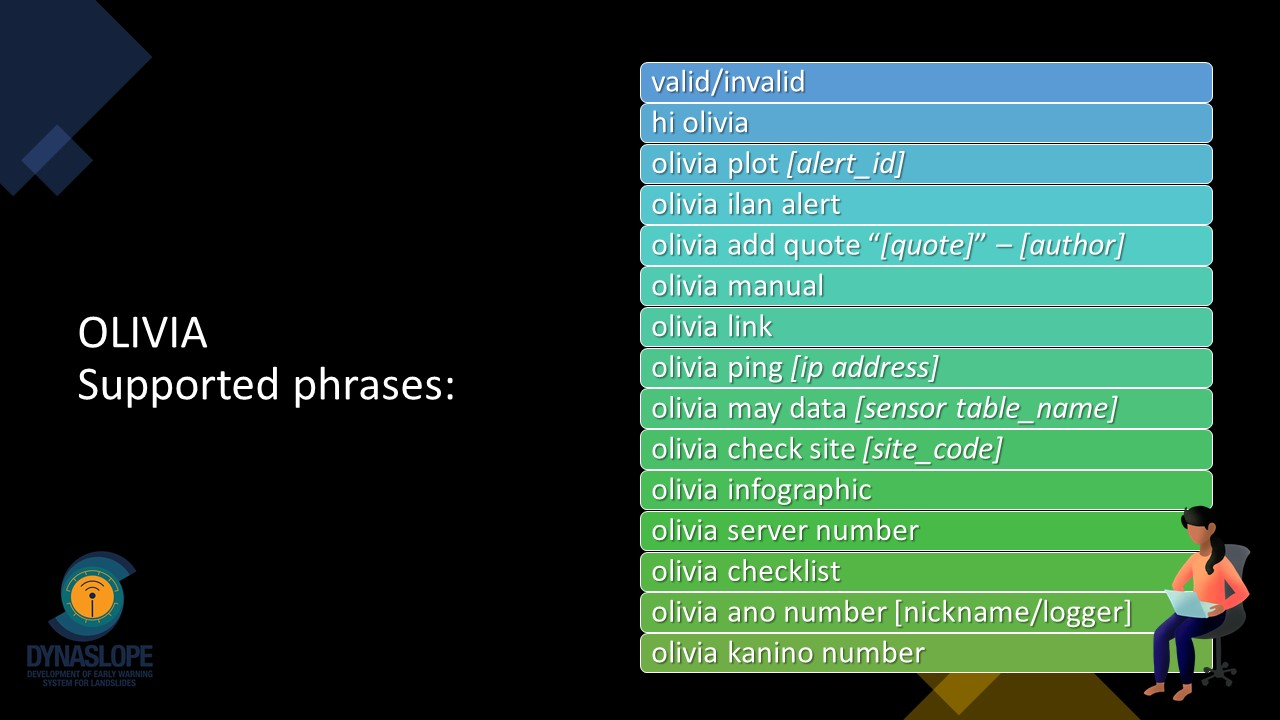
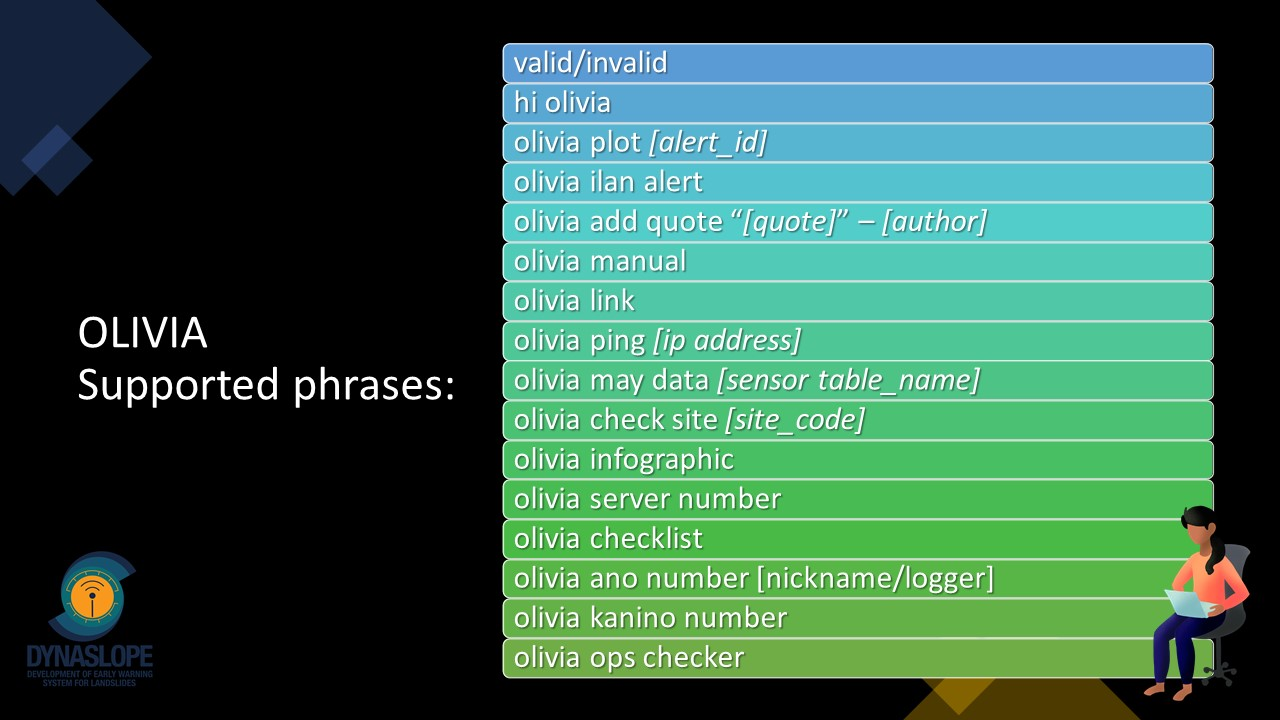
added olivia scripts

Changed region(s): [[0.375, 0.0611, 0.9688, 0.9472]]

diff --git a/gsm/smsparser2/subsurface.py b/gsm/smsparser2/subsurface.py
@@ -7,6 +7,8 @@ import sys
 
 sys.path.append(os.path.dirname(os.path.realpath(__file__)))
 import smsclass
+import volatile.memory as mem
+import rain
 #------------------------------------------------------------------------------
 
 
@@ -72,6 +74,23 @@ def v1(sms):
    
     tsm_name = line[0:4]
     print ('SITE: ' + tsm_name)
+    
+#    check tsm in tsm list 
+    mc = mem.get_handle()
+    tsm_list = mc.get('DF_TSM_SENSORS').tsm_name.tolist()
+    if tsm_name.lower() not in tsm_list:
+        #kunin sa logger mobile yung tsm_name
+        sender = sms.sim_num[-10:]
+
+        msgname = rain.check_name_of_number(sender)
+        if msgname:
+            tsm_name = msgname.lower()
+            print (">> Number registered as", tsm_name)
+
+        else:
+            raise ValueError("Number not registered {}".format(sender))
+###############################################################################
+            
     ##msgdata = line[5:len(line)-11] #data is 6th char, last 10 char are date
     try:
         msgdata = (line.split('*'))[1]
@@ -253,22 +272,40 @@ def v2(sms):
     outl = []
     msgsplit = msg.split('*')
     tsm_name = msgsplit[0] # column id
-
-    if len(msgsplit) != 4:
-        print ('wrong data format')
-        # print msg
-        return
-
+    
     if len(tsm_name) != 5:
         print ('wrong master name')
         return
+#    check tsm in tsm list 
+
+#    mc = mem.get_handle()
+#    tsm_list = mc.get('DF_TSM_SENSORS').tsm_name.tolist()
+#    if tsm_name.lower() not in tsm_list:
+#        #kunin sa logger mobile yung tsm_name
+#        sender = sms.sim_num[-10:]
+#
+#        msgname = rain.check_name_of_number(sender)
+#        if msgname:
+#            tsm_name = msgname.lower()
+#            print (">> Number registered as", tsm_name)
+#
+#        else:
+#            raise ValueError("Number not registered {}".format(sender))
+
+###############################################################################
+    if len(msgsplit) != 4:
+        print ('wrong data format')
+		# print msg	   
+        return
+
+
 
     print (msg)
 
     dtype = msgsplit[1].upper()
    
     datastr = msgsplit[2]
-    
+ 
     if len(datastr) == 136:
         datastr = datastr[0:72] + datastr[73:]
     
@@ -362,7 +399,7 @@ def v2(sms):
             except ValueError:
                 print (">> Value Error detected.", piece,)
                 print ("Piece of data to be ignored")
-                return
+#                return
     
     df = pd.DataFrame(outl)
     data = smsclass.DataTable(name_df,df)
@@ -561,14 +598,30 @@ def soms_parser(msgline,mode,div,err, dt):
 
 def b64Parser(sms):
     msg = sms.msg
+
     print (msg)
     if len(msg.split("*")) == 4:
         msgsplit = msg.split('*')
 		
         tsm_name = msgsplit[0]
-        if len(tsm_name) != 5:
+        if len(tsm_name) !=5:
             raise ValueError("length of tsm_name != 5")
-
+            
+        #    check tsm in tsm list 
+#        mc = mem.get_handle()
+#        tsm_list = mc.get('DF_TSM_SENSORS').tsm_name.tolist()
+#        if  tsm_name.lower() not in tsm_list:
+#            #kunin sa logger mobile yung tsm_name
+#            sender = sms.sim_num[-10:]
+#    
+#            msgname = rain.check_name_of_number(sender)
+#            if msgname:
+#                tsm_name = msgname.lower()
+#                print (">> Number registered as", tsm_name)
+#    
+#            else:
+#                raise ValueError("Number not registered {}".format(sender))
+###############################################################################
         dtype = msgsplit[1]
         #print dtype
         if len(dtype) == 2:
@@ -611,7 +664,7 @@ def b64Parser(sms):
                 except ValueError:
                     print (">> b64 Value Error detected.", piece,)
                     print ("Piece of data to be ignored")
-                    return
+#                    return
         #elif dtype in [110,111,112,113,21,26,10,13]: # wala pang support for v2 bradcast soms
         elif dtype in [110,113,10,13]: # wala pang support for v2 bradcast soms
             name_df = 'soms_'+tsm_name.lower() 
@@ -628,7 +681,7 @@ def b64Parser(sms):
                 except ValueError:
                     print (">> b64 Value Error detected.", piece,)
                     print ("Piece of data to be ignored")
-                    return
+#                    return
 		        
         #for temp
         elif dtype == 22: 
@@ -646,7 +699,7 @@ def b64Parser(sms):
                 except ValueError:
                     print (">> b64 Value Error detected.", piece,)
                     print ("Piece of data to be ignored")
-                    return
+#                    return
         else:
             raise ValueError("dtype not recognized")
 

diff --git a/google/olivia_hangouts.py b/google/olivia_hangouts.py
@@ -137,6 +137,7 @@ def send_hangouts(OutputFP, alert, conversation_id = ""):
 if __name__ == '__main__':
     test_groupchat='UgwcSTTEx1yRS0DrYVN4AaABAQ'
     brain = 'UgwySAbzw-agrDF6QAB4AaABAagBp5i4CQ'
+    mesolong_plots = 'Ugwfh1axgaZvvN6RL2R4AaABAQ'
 
     query = "SELECT link from olivia_link where link_id = 3"
     python_path = db.read(query, connection = "gsm_pi")[0][0]
@@ -266,7 +267,7 @@ if __name__ == '__main__':
             try:
                 for img in os.listdir(plot_path_sensor):    
                     if re.search("colpos",img):
-                        cmd = "{} {}/upload_image.py --conversation-id {} --image '{}/{}'".format(python_path,file_path,brain,plot_path_sensor,img)
+                        cmd = "{} {}/upload_image.py --conversation-id {} --image '{}/{}'".format(python_path,file_path,mesolong_plots,plot_path_sensor,img)
                         os.system(cmd)
                         
                         

diff --git a/google/olivia_receive_message.py b/google/olivia_receive_message.py
@@ -712,7 +712,10 @@ def on_event(conv_event):
 #                           gsm_id=2, table='users')
         
         elif re.search('olivia ops checker',received_msg.lower()):
-            ts = re.findall(r'\d{4}-\d{2}-\d{2} \d{2}:\d{2}',received_msg)[0]
+            try:
+                ts = re.findall(r'\d{4}-\d{2}-\d{2} \d{2}:\d{2}',received_msg)[0]
+            except IndexError:
+                ts = ""
 #            received_msg.replace('olivia ops checker',"")
 #            ts = ts.replace("'","")
 #            ts = ts.replace('"',"")
